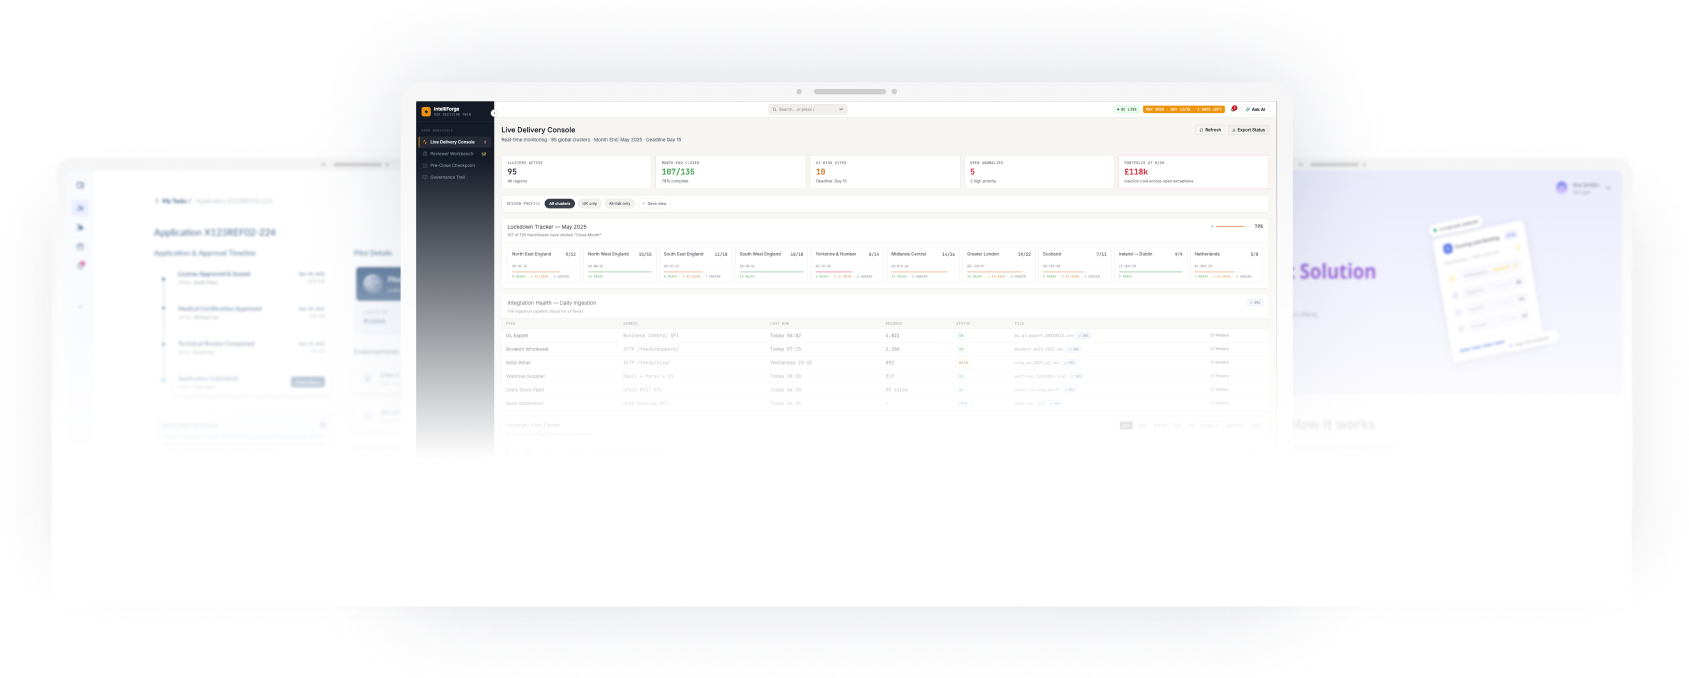
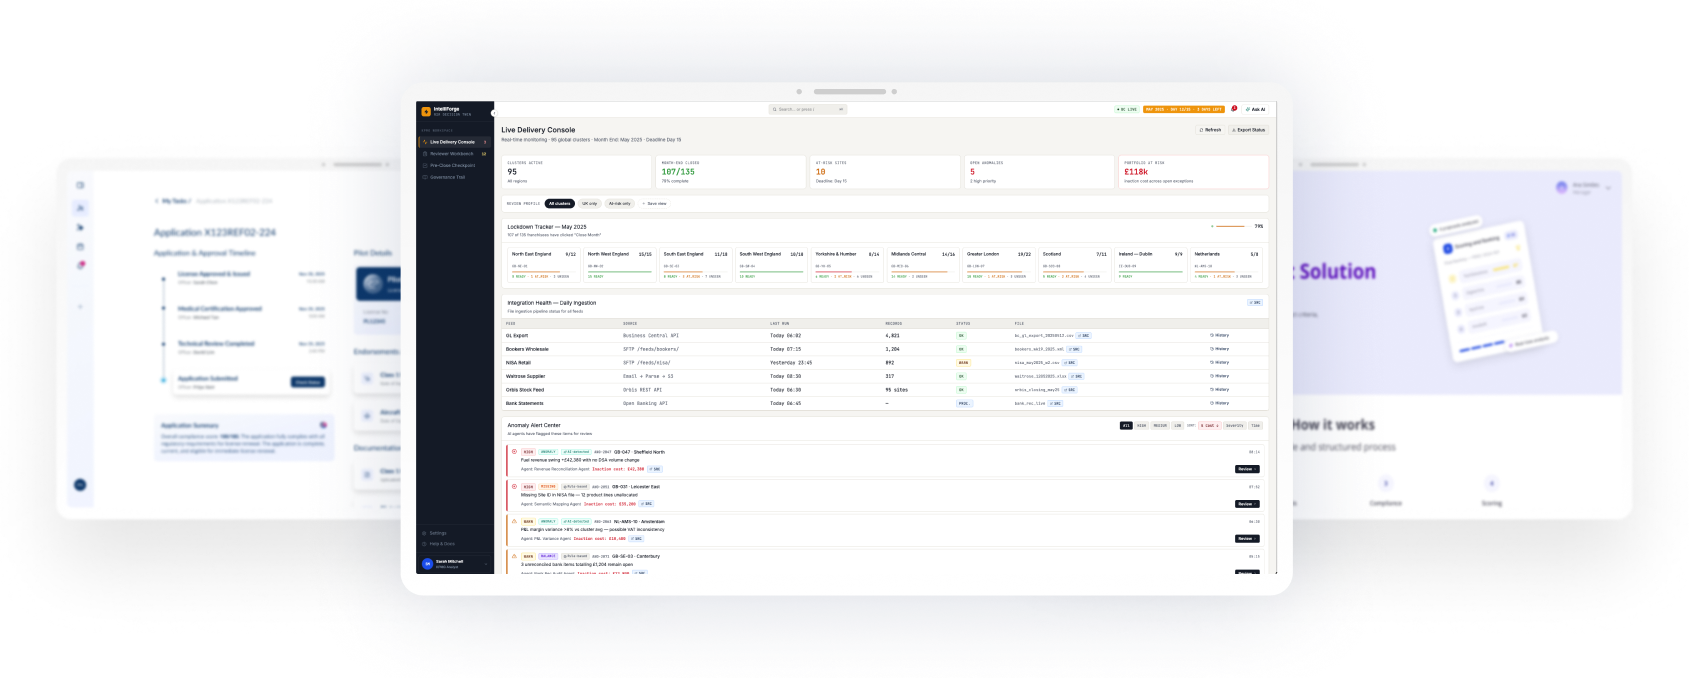
feat: fade mockup bottom edge with a CSS mask
Add a linear-gradient mask-image on the Featured Work mockup so the
bottom ~25% dissolves into the page background, using the updated
hero.png asset. Controlled in CSS this time instead of relying on
alpha baked into the image file.

diff --git a/src/pages/Portfolio.tsx b/src/pages/Portfolio.tsx
@@ -62,7 +62,17 @@ export default function Portfolio() {
         </div>
 
         <div style={{ marginTop: 32 }}>
-          <img src={intelliforgeImg} alt="IntelliForge SR2R desktop preview" style={{ width: '100%', height: 'auto', borderRadius: 16 }} />
+          <img
+            src={intelliforgeImg}
+            alt="IntelliForge SR2R desktop preview"
+            style={{
+              width: '100%',
+              height: 'auto',
+              borderRadius: 16,
+              WebkitMaskImage: 'linear-gradient(to bottom, black 75%, transparent 100%)',
+              maskImage: 'linear-gradient(to bottom, black 75%, transparent 100%)',
+            }}
+          />
         </div>
       </div>
 
